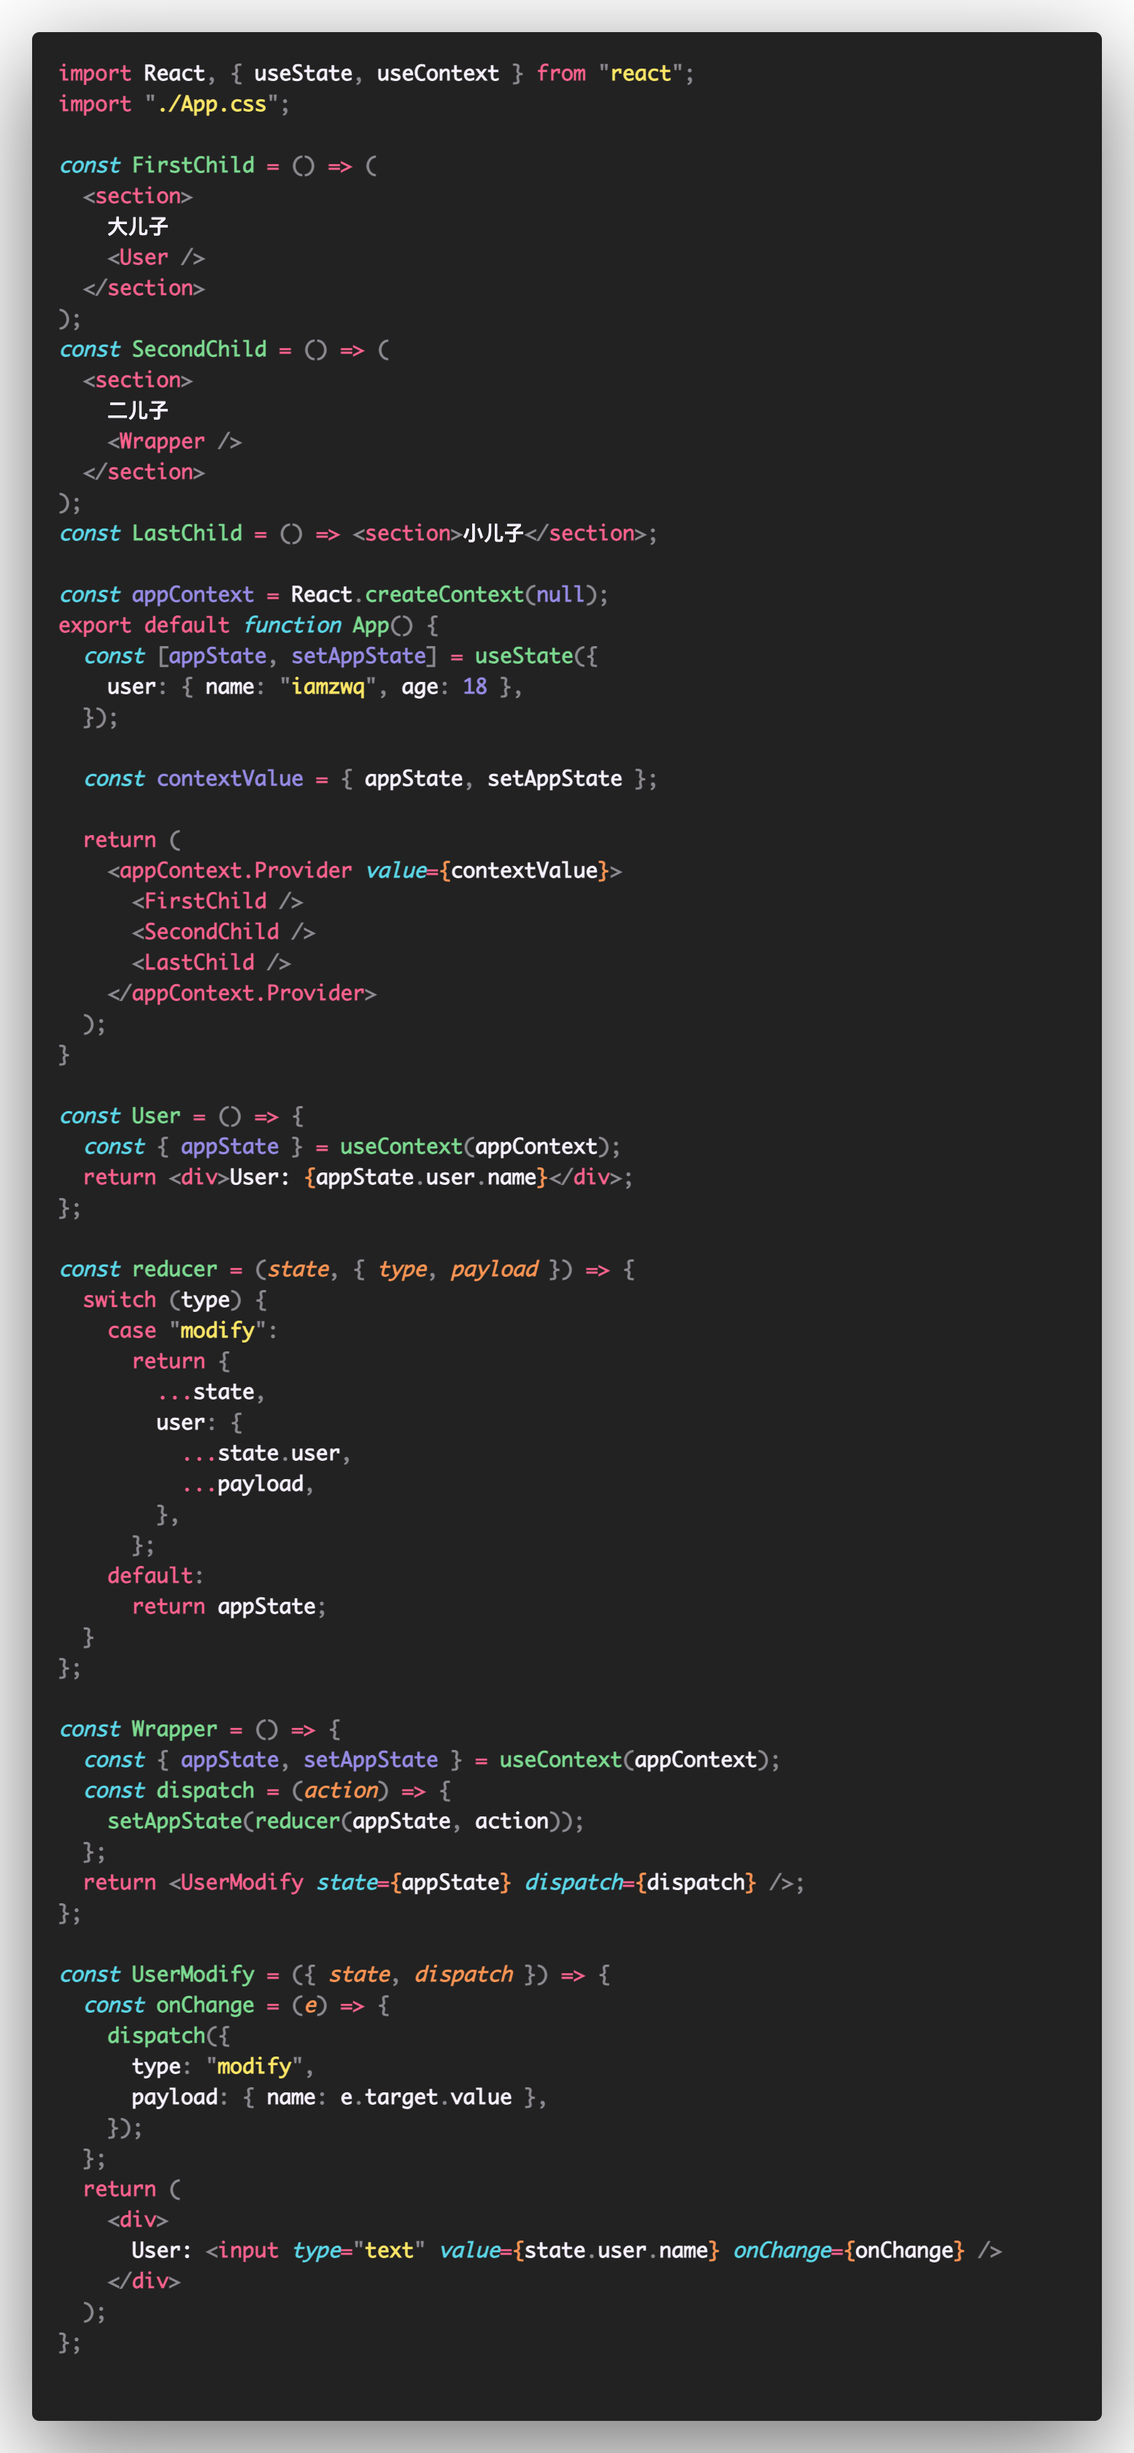
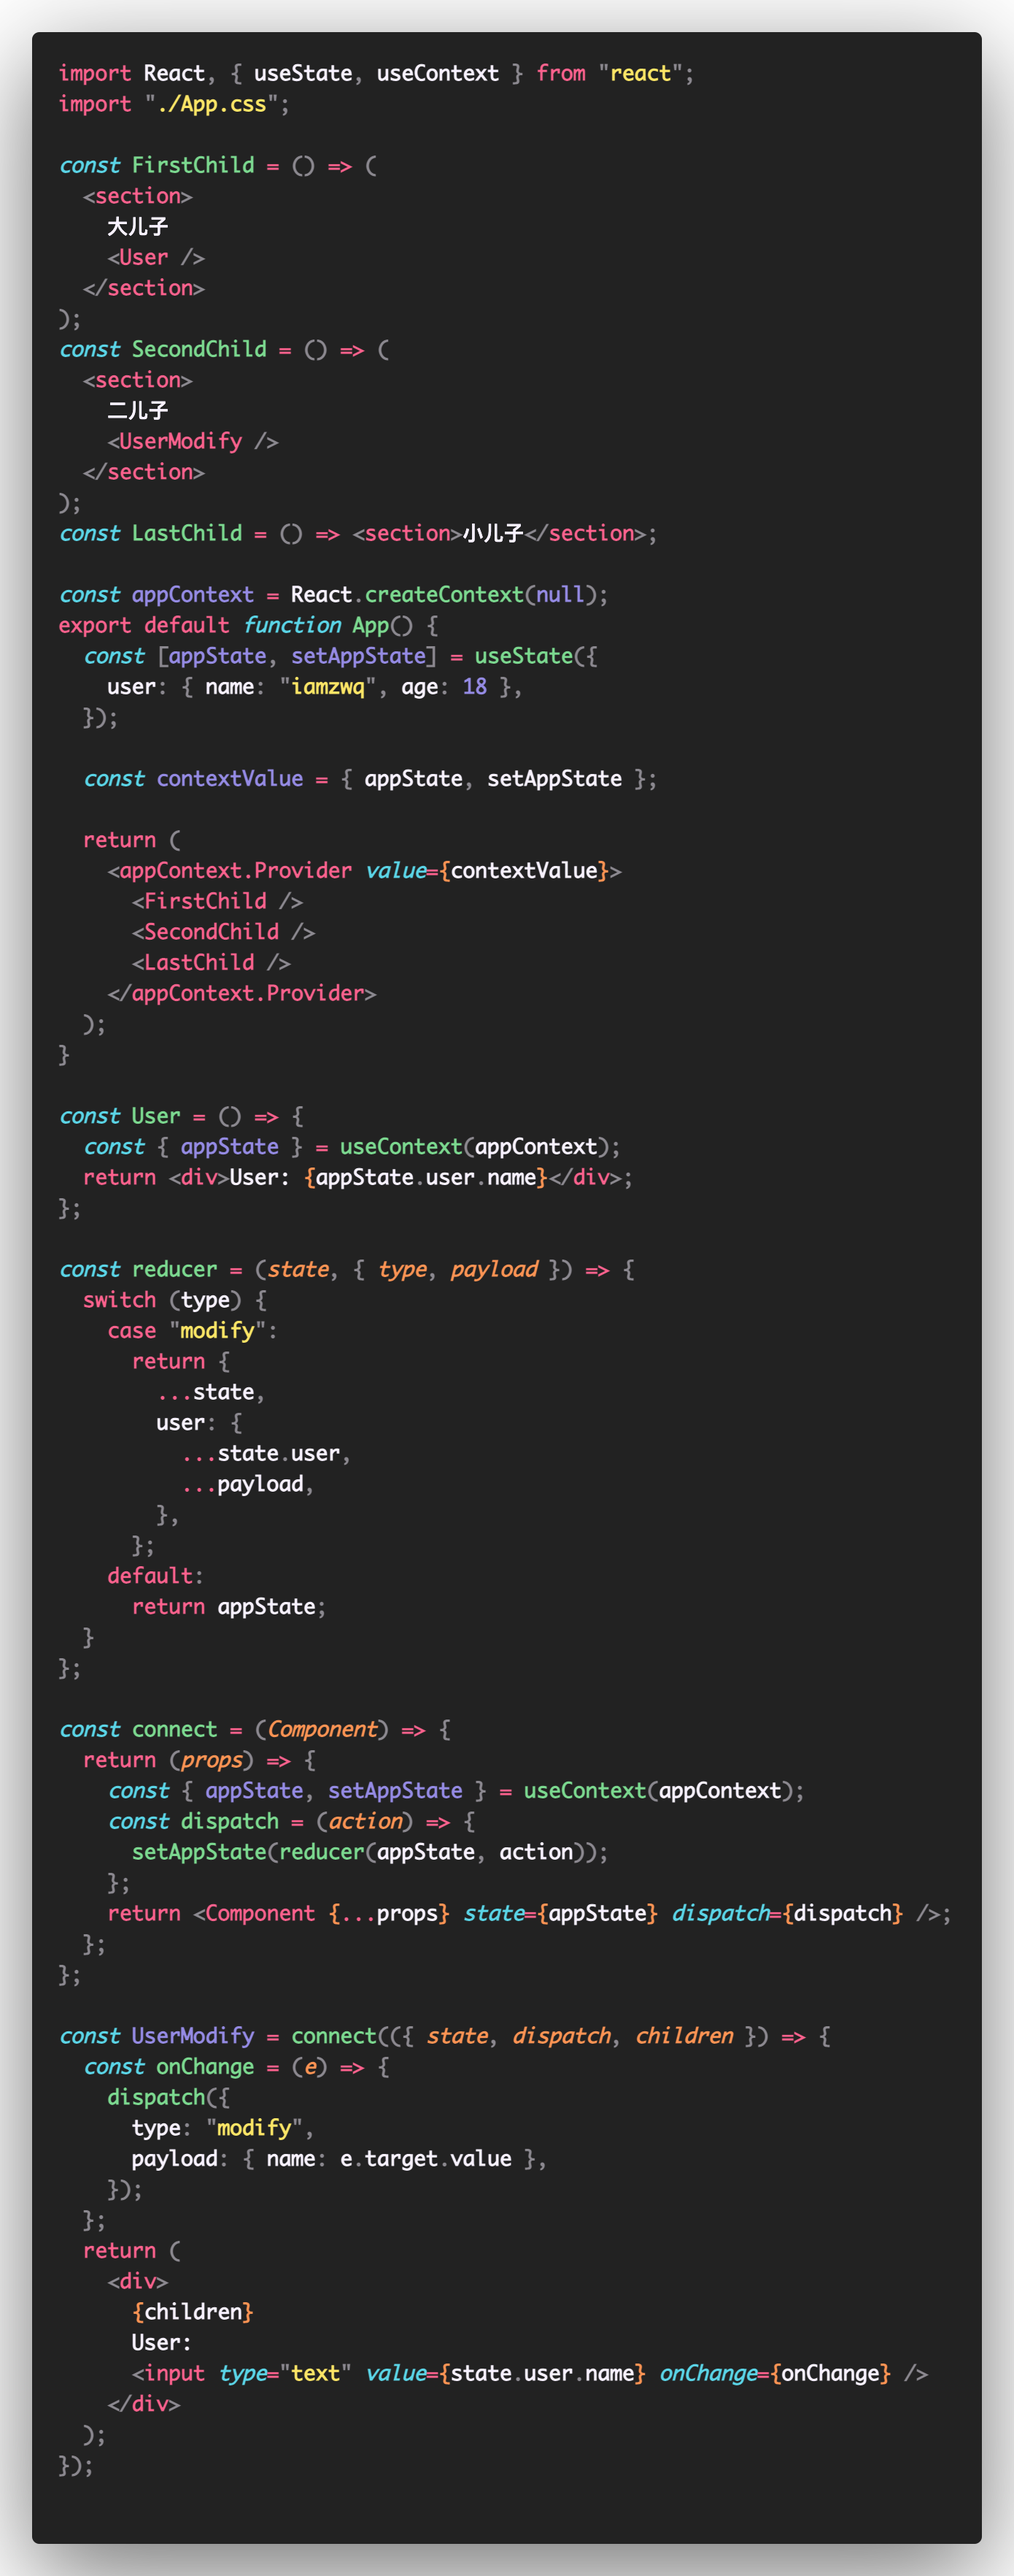
feat: 实现connect高阶函数

diff --git a/src/App.jsx b/src/App.jsx
@@ -10,7 +10,7 @@ const FirstChild = () => (
 const SecondChild = () => (
   <section>
     二儿子
-    <Wrapper />
+    <UserModify />
   </section>
 );
 const LastChild = () => <section>小儿子</section>;
@@ -52,15 +52,17 @@ const reducer = (state, { type, payload }) => {
   }
 };
 
-const Wrapper = () => {
-  const { appState, setAppState } = useContext(appContext);
-  const dispatch = (action) => {
-    setAppState(reducer(appState, action));
+const connect = (Component) => {
+  return (props) => {
+    const { appState, setAppState } = useContext(appContext);
+    const dispatch = (action) => {
+      setAppState(reducer(appState, action));
+    };
+    return <Component {...props} state={appState} dispatch={dispatch} />;
   };
-  return <UserModify state={appState} dispatch={dispatch} />;
 };
 
-const UserModify = ({ state, dispatch }) => {
+const UserModify = connect(({ state, dispatch, children }) => {
   const onChange = (e) => {
     dispatch({
       type: "modify",
@@ -69,7 +71,9 @@ const UserModify = ({ state, dispatch }) => {
   };
   return (
     <div>
-      User: <input type="text" value={state.user.name} onChange={onChange} />
+      {children}
+      User:
+      <input type="text" value={state.user.name} onChange={onChange} />
     </div>
   );
-};
+});

diff --git a/src/main.jsx b/src/main.jsx
@@ -1,11 +1,10 @@
-import React from 'react'
-import ReactDOM from 'react-dom'
-import './index.css'
-import App from './App'
+import React from "react";
+import ReactDOM from "react-dom";
+import App from "./App";
 
 ReactDOM.render(
   <React.StrictMode>
     <App />
   </React.StrictMode>,
-  document.getElementById('root')
-)
+  document.getElementById("root")
+);
